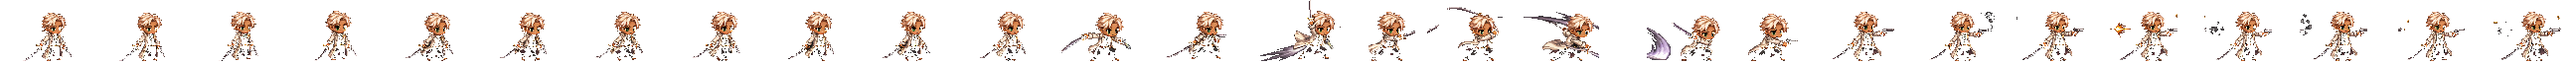
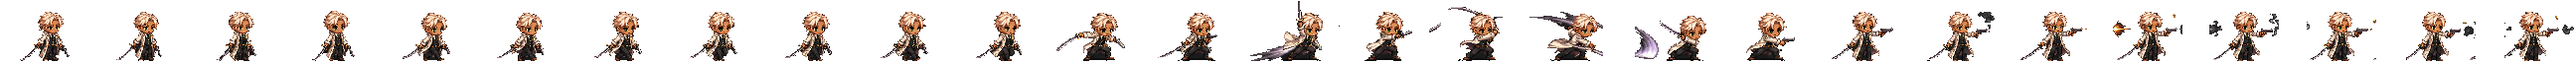
캐릭터 색상 뚫림 수정 · 방향키 고정 버그 수정
색상: 배경(27,27,28)과 어두운 조끼/바지의 색차가 작아 기존 허용치(합계 78)가
옷까지 배경으로 판정해 뚫렸음. 엄격 허용치(12)로 테두리 플러드필 + 제한
확장(2패스)으로 안티에일리어싱만 정리 + 내부 구멍 복원 로직 추가해 재추출.

방향키 고정: 창 포커스 상실·탭 전환·우클릭 등으로 keyup이 유실되면 키가
계속 눌린 상태로 남아 한 방향으로 고정되던 문제.
- blur/pagehide/visibilitychange에서 입력 초기화
- 매 프레임 document.hasFocus()로 유실된 keyup 복구
- IME 조합 중(e.isComposing) keydown 무시
- 레벨업/보상/설정창 열 때 눌린 키 해제
- 버튼 클릭 후 blur() — 포커스 남아 Space가 버튼을 재활성화하는 문제 차단
- 스프라이트 좌우 전환 데드존 0.15→0.05

Claude-Session: https://claude.ai/code/session_01JQrqj8VwghESuWCrw9YgFX

Changed region(s): [[0.0, 0.1875, 1.0, 0.9688]]

diff --git a/src/core/Input.ts b/src/core/Input.ts
@@ -1,4 +1,12 @@
-/** 키보드 / 마우스 입력 관리 */
+/**
+ * 키보드 / 마우스 입력 관리
+ *
+ * 키 고정(stuck key) 방지:
+ *   창 포커스 상실(알트탭)·탭 전환·우클릭 메뉴 등에서 keyup 이벤트가 유실되면
+ *   키가 계속 눌린 상태로 남아 캐릭터가 한 방향으로 고정된다.
+ *   blur/visibilitychange/pagehide에서 초기화하고, 매 프레임 document.hasFocus()로
+ *   이벤트가 유실된 경우까지 복구한다.
+ */
 export class Input {
   keys = new Set<string>()
   mouseDown = false
@@ -6,6 +14,7 @@ export class Input {
   /** 마우스의 NDC 좌표 (-1..1) */
   ndc = { x: 0, y: 0 }
   private el: HTMLElement
+  private hadFocus = true
 
   constructor(el: HTMLElement) {
     this.el = el
@@ -15,9 +24,31 @@ export class Input {
     window.addEventListener('mouseup', this.onMouseUp)
     window.addEventListener('mousemove', this.onMove)
     el.addEventListener('contextmenu', (e) => e.preventDefault())
+
+    // 포커스/가시성 변화 시 입력 초기화
+    window.addEventListener('blur', this.clearAll)
+    window.addEventListener('pagehide', this.clearAll)
+    document.addEventListener('visibilitychange', () => {
+      if (document.hidden) this.clearAll()
+    })
+  }
+
+  /** 눌린 키·버튼 전부 해제 */
+  clearAll = () => {
+    this.keys.clear()
+    this.mouseDown = false
+    this.rightDown = false
+  }
+
+  /** 매 프레임 호출 — 포커스가 빠진 사이 유실된 keyup을 복구 */
+  update() {
+    const focused = document.hasFocus()
+    if (this.hadFocus && !focused) this.clearAll()
+    this.hadFocus = focused
   }
 
   private onKey = (e: KeyboardEvent) => {
+    if (e.isComposing) return // IME 조합 중에는 무시(keyup 유실 방지)
     this.keys.add(e.code)
     // 스크롤 방지
     if ([' ', 'ArrowUp', 'ArrowDown', 'ArrowLeft', 'ArrowRight'].includes(e.key)) e.preventDefault()

diff --git a/src/core/Game.ts b/src/core/Game.ts
@@ -199,6 +199,7 @@ export class Game {
       this.closeSettings()
     } else {
       this.settingsOpen = true
+      this.input.clearAll() // 설정창 여는 동안 눌린 키 해제
       this.audio.init()
       this.audio.resume()
       this.hud.openSettings(
@@ -226,6 +227,7 @@ export class Game {
   private loop = () => {
     requestAnimationFrame(this.loop)
     const dt = Math.min(this.clock.getDelta(), 0.05)
+    this.input.update() // 포커스 상실로 유실된 keyup 복구(키 고정 방지)
 
     if (this.state === 'playing' && !this.settingsOpen) this.step(dt)
 
@@ -532,6 +534,7 @@ export class Game {
 
   private openLevelUp() {
     this.state = 'levelup'
+    this.input.clearAll() // 선택창 동안 눌린 키 해제(재개 시 키 고정 방지)
     this.audio.levelup()
     this.hud.showLevelUp('LEVEL UP!', '강화할 능력을 선택하세요', rollChoices(3), (u) => {
       this.applyTrait(u)
@@ -542,6 +545,7 @@ export class Game {
   /** 보스 처치 보상: 장비 1개 + 특성 1개 선택 */
   private openBossReward() {
     this.state = 'reward'
+    this.input.clearAll()
     this.audio.levelup()
     const weapons = rollWeapons(3, [this.player.gun.id, this.player.sword.id])
     this.hud.showEquipment(weapons as WeaponDef[], (w) => {

diff --git a/src/ui/HUD.ts b/src/ui/HUD.ts
@@ -141,23 +141,35 @@ export class HUD {
   }
 
   onStart(cb: () => void) {
-    ;(this.q('#startBtn') as HTMLButtonElement).onclick = () => {
+    const btn = this.q('#startBtn') as HTMLButtonElement
+    btn.onclick = () => {
+      btn.blur() // 포커스 남으면 Space/Enter가 버튼을 재활성화함
       this.startOv.classList.remove('show')
       cb()
     }
   }
   onRestart(cb: () => void) {
-    ;(this.q('#restartBtn') as HTMLButtonElement).onclick = () => {
+    const btn = this.q('#restartBtn') as HTMLButtonElement
+    btn.onclick = () => {
+      btn.blur()
       this.overOv.classList.remove('show')
       cb()
     }
   }
 
   onOpenSettings(cb: () => void) {
-    ;(this.q('#settingsBtn') as HTMLButtonElement).onclick = cb
+    const btn = this.q('#settingsBtn') as HTMLButtonElement
+    btn.onclick = () => {
+      btn.blur()
+      cb()
+    }
   }
   onCloseSettings(cb: () => void) {
-    ;(this.q('#settingsClose') as HTMLButtonElement).onclick = cb
+    const btn = this.q('#settingsClose') as HTMLButtonElement
+    btn.onclick = () => {
+      btn.blur()
+      cb()
+    }
   }
 
   onVolume(cb: (kind: 'master' | 'music' | 'sfx', v: number) => void) {

diff --git a/src/entities/CharacterSprite.ts b/src/entities/CharacterSprite.ts
@@ -148,8 +148,9 @@ export class CharacterSprite {
     st: { moving: boolean; dashing: boolean; swinging: boolean; shooting: boolean; invulnerable: boolean },
     hitFlash: number,
   ) {
-    if (Math.sin(aimAngle) < -0.15) this.flip = -1
-    else if (Math.sin(aimAngle) > 0.15) this.flip = 1
+    // 조준 x성분으로 좌우 전환 (데드존 좁게 → 방향 전환이 굼뜨지 않게)
+    if (Math.sin(aimAngle) < -0.05) this.flip = -1
+    else if (Math.sin(aimAngle) > 0.05) this.flip = 1
     const faceLeft = this.flip < 0
 
     // 우선순위: 베기 > 사격 > 걷기 > 대기
